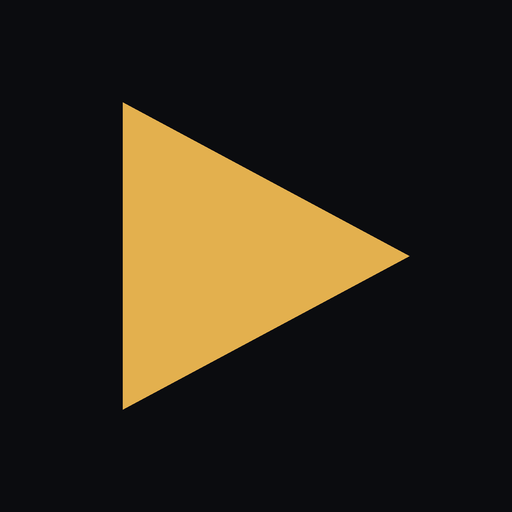
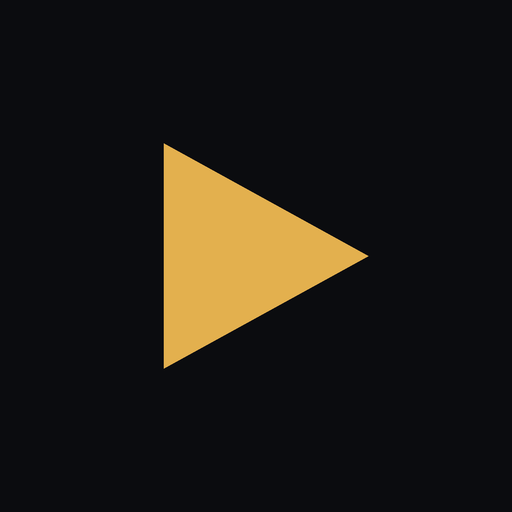
复查 PWA/备份：空备份守卫、图标遮罩、横屏、README 表格
一、备份的两个静默陷阱（都是数据安全问题）
  1. 导出时若个人数据还没从服务器读到（启动时 loadUserData 失败，应用仍会进主界面），
     doc 是空的 —— 导出的是一份 {}，用户却以为备份成功。这比不给备份更糟：
     等到真要恢复时才发现备份是空的。
  2. 导入时未加载同理：改动不会被推送（scheduleFlush 在 !loaded 时直接返回），
     还会被随后一次成功的 loadUserData 整份覆盖，而界面已经显示「已合并」。
  两个函数现在都先检查 loaded 并抛明确错误，设置页按钮在未加载时禁用并给出提示。

二、PWA 图标画错了
  - apple-touch-icon 与 maskable 原先是「圆角 + 透明角」，但这两个都由系统
    自己裁形状：iOS 会把透明角填成色块（双层圆角），maskable 的圆形遮罩会切角。
    改成满版不透明，maskable 的图形收进中心（pad 0.28）。
  - manifest 里我写了 orientation: portrait-primary —— 会把装到桌面的应用
    **锁死在竖屏**，看番没法横屏。删掉。

三、sw.js
  - 不缓存 sw.js 自身：浏览器更新检查虽然绕过 SW，但页面里若有 fetch('/sw.js')
    会命中缓存拿到旧副本，没有任何好处。
  - 补注释说明 VERSION 的用法与 assets 缓存随部署累积（一次约 300KB）的取舍。

四、README
  上一轮加 PWA 行时把 | 界面 | 的表头吃掉了，两行内容被拼成一行、还丢了
  「登录页 + 暗色 / 亮色双主题」这半句。已拆回两行并补回缺失文字，
  校验三张表的列数与闭合都正常。

Changed region(s): [[0.2188, 0.1875, 0.8125, 0.8125]]

diff --git a/frontend/src/pages/SettingsPage.tsx b/frontend/src/pages/SettingsPage.tsx
@@ -4,6 +4,7 @@ import BangumiChannelCard from '../components/BangumiChannelCard'
 import {
   exportUserData,
   flushUserData,
+  isUserDataLoaded,
   getSyncState,
   importUserData,
   getTheme,
@@ -62,7 +63,13 @@ export default function SettingsPage() {
   }, [])
 
   const doExport = () => {
-    const text = exportUserData()
+    let text: string
+    try {
+      text = exportUserData()
+    } catch (e) {
+      setBackupMsg(`导出失败：${e instanceof Error ? e.message : '未知错误'}`)
+      return
+    }
     const blob = new Blob([text], { type: 'application/json' })
     const url = URL.createObjectURL(blob)
     const a = document.createElement('a')
@@ -76,6 +83,12 @@ export default function SettingsPage() {
 
   const doImport = async (file: File | undefined) => {
     if (!file) return
+    // 上限只是防呆：备份是纯文本，几千条收藏也就几百 KB。
+    // 没有上限时选错一个大文件会把主线程卡在 JSON.parse 上。
+    if (file.size > 10 * 1024 * 1024) {
+      setBackupMsg('导入失败：文件超过 10MB，多半不是备份文件')
+      return
+    }
     setBackupMsg('导入中…')
     try {
       const summary = importUserData(await file.text())
@@ -157,10 +170,18 @@ export default function SettingsPage() {
           所以选错文件也不会把现有数据冲掉。
         </div>
         <div style={{ display: 'flex', gap: 10, flexWrap: 'wrap', marginTop: 12 }}>
-          <button className="btn btn-secondary btn-sm" onClick={doExport}>
+          <button
+            className="btn btn-secondary btn-sm"
+            onClick={doExport}
+            disabled={!isUserDataLoaded()}
+            title={isUserDataLoaded() ? '' : '个人数据还没读到，先点页脚的「重新读取」'}
+          >
             导出备份
           </button>
-          <label className="btn btn-secondary btn-sm" style={{ cursor: 'pointer' }}>
+          <label
+            className="btn btn-secondary btn-sm"
+            style={{ cursor: isUserDataLoaded() ? 'pointer' : 'not-allowed', opacity: isUserDataLoaded() ? 1 : 0.5 }}
+          >
             导入备份
             <input
               type="file"

diff --git a/frontend/src/lib/storage.ts b/frontend/src/lib/storage.ts
@@ -711,8 +711,16 @@ export interface ImportSummary {
   recent: number
 }
 
+/** 个人数据是否已经从服务器读到。导出/导入都要看它，理由见下面两个函数的守卫。 */
+export function isUserDataLoaded(): boolean {
+  return loaded
+}
+
 /** 导出整份个人数据。格式化输出，便于人工查看与 diff。 */
 export function exportUserData(): string {
+  // 读取失败时应用仍可用（浏览与搜索不需要同步），但 doc 是空的。
+  // 此时导出的是一份 {}，用户却会以为备份成功 —— 那比不给备份更糟。
+  if (!loaded) throw new Error('个人数据还没从服务器读到，现在导出只会得到一份空备份')
   return JSON.stringify(doc, null, 2)
 }
 
@@ -734,6 +742,9 @@ function numOr(value: unknown, fallback: number): number {
  * 文件不合法时抛错，由调用方展示。
  */
 export function importUserData(text: string): ImportSummary {
+  // 未加载时写进去的改动既不会被推送（scheduleFlush 在 !loaded 时直接返回），
+  // 还会被随后一次成功的 loadUserData 整份覆盖 —— 而界面已经显示「已合并」。
+  if (!loaded) throw new Error('个人数据还没从服务器读到，现在导入会被随后的加载覆盖')
   let parsed: unknown
   try {
     parsed = JSON.parse(text)

diff --git a/frontend/public/sw.js b/frontend/public/sw.js
@@ -21,6 +21,13 @@
  *    立即接管会让「还开着的老页面」去请求已经被删掉的旧 chunk，
  *    正好制造第 3 条要避免的那种白屏。
  */
+/**
+ * 缓存版本。改动缓存策略时**手动**改这里，activate 会清掉所有旧版本缓存。
+ * 注意：assets 缓存会随部署累积（新部署产生新哈希文件名，旧文件不再被引用
+ * 但仍在缓存里，一次部署约 300KB）。这是刻意接受的取舍 —— 换来的是弱网下
+ * 二次打开直接命中本地，而清理需要解析 index.html 才知道哪些还在用，
+ * 复杂度和出错面都不划算。真需要腾空间时把这里 +1 即可全清。
+ */
 const VERSION = 'v1'
 const SHELL_CACHE = `animeko-shell-${VERSION}`
 const ASSET_CACHE = `animeko-assets-${VERSION}`
@@ -59,6 +66,9 @@ self.addEventListener('fetch', (event) => {
   const url = new URL(req.url)
   if (url.origin !== self.location.origin) return
   if (url.pathname.startsWith('/api/')) return
+  // sw.js 自身不进缓存：浏览器的更新检查会绕过 SW，但页面里若有 fetch('/sw.js')
+  // 就会命中缓存拿到旧副本，一点好处都没有
+  if (url.pathname === '/sw.js') return
 
   if (req.mode === 'navigate') {
     event.respondWith(networkFirstNavigation(req))

diff --git a/README.md b/README.md
@@ -20,7 +20,8 @@
 | 播放体验 | 键盘快捷键（空格/`K` 播放暂停、`←`/`→` ±5 秒、`J`/`L` ±10 秒、`↑`/`↓` 音量、`M` 静音、`F` 全屏；触屏手势见播放页快捷键卡片）、**断点续播**、**自动连播**（下一集倒计时）|
 | 数据备份 | 设置页**一键导出 / 导入**个人数据（收藏、条目进度、每集进度、搜索历史、最近观看）。导入是**合并**不是覆盖：按 id / 播放地址去重、进度取更新的一条、条目进度取更大集号 —— 选错文件也不会把现有数据冲掉 |
 | 个人数据 | 追番收藏（**分想看 / 在看 / 看过 / 搁置**四档，可在收藏页直接改）、**数据源收藏**（没有 Bangumi 条目的源站作品也能收）、最近观看、搜索历史、每集观看进度、**条目级「看到第几话」** —— 全部存服务器的 `userdata.json`，**不写浏览器 localStorage**（只有主题与播放器音量/倍速这类设备偏好留在本地：它们必须在首屏或播放前读到，且换设备本就该各自独立） |
-| PWA | **可安装到主屏幕**（manifest + Service Worker，standalone 全屏、无地址栏）；手机端导航改为**底部 tab bar**（5 项，带安全区适配，播放页自动隐藏）。SW 策略：导航请求 network-first、`/assets/*`（带内容哈希）cache-first、`/api/*` 完全不拦截；**不调 skipWaiting**，新版本等旧页面关掉再接管 —— 立即接管会让老页面去请求已删除的旧 chunk |（「午夜影院」风格：深黑放映厅 / 暖白画报两套底色，琥珀金 accent，衬线标题）、响应式布局，桌面与手机浏览器均可；**首页继续观看**（上次那集还剩几分钟，一键续播）、**首页每日放送**（Bangumi 放送表按星期分组，可「只看我追的」并标出已收藏，镜像不支持该端点时自动隐藏整块）、**发现页排行榜**（Bangumi 动画评分榜，分页加载）；**顶栏常驻搜索框**（在任何页面都能改关键词，不必回首页）；搜索结果按**海报卡片**排布（源站结果同样带封面），**结果逐个回填**（不被最慢的死源拖着，见下方说明）；**返回搜索页不重搜**（每个关键词的结果在会话内记忆，标题旁可手动刷新）；页脚常驻「已保存 / 待保存 / 未同步」状态点。封面直连失败时自动改走 `/api/proxy` 回退，避免源站防盗链导致一片灰图；两条路都不通时落到统一的占位块而不是留个空洞 |
+| PWA | **可安装到主屏幕**（manifest + Service Worker，standalone 全屏、无地址栏）；手机端导航改为**底部 tab bar**（5 项，带安全区适配，播放页自动隐藏）。SW 策略：导航请求 network-first、`/assets/*`（带内容哈希）cache-first、`/api/*` 完全不拦截；**不调 skipWaiting**，新版本等旧页面关掉再接管 —— 立即接管会让老页面去请求已删除的旧 chunk。**注意**：Service Worker 只在 HTTPS 或 `localhost` 下生效；用纯 HTTP 访问内网 IP 时 PWA 装不上（页面本身照常工作，注册失败是静默的）。反代配好证书后把 `ANIMEKO_COOKIE_SECURE=true` 一起设上 |
+| 界面 | 登录页 + 暗色 / 亮色双主题（「午夜影院」风格：深黑放映厅 / 暖白画报两套底色，琥珀金 accent，衬线标题）、响应式布局，桌面与手机浏览器均可；**首页继续观看**（上次那集还剩几分钟，一键续播）、**首页每日放送**（Bangumi 放送表按星期分组，可「只看我追的」并标出已收藏，镜像不支持该端点时自动隐藏整块）、**发现页排行榜**（Bangumi 动画评分榜，分页加载）；**顶栏常驻搜索框**（在任何页面都能改关键词，不必回首页）；搜索结果按**海报卡片**排布（源站结果同样带封面），**结果逐个回填**（不被最慢的死源拖着，见下方说明）；**返回搜索页不重搜**（每个关键词的结果在会话内记忆，标题旁可手动刷新）；页脚常驻「已保存 / 待保存 / 未同步」状态点。封面直连失败时自动改走 `/api/proxy` 回退，避免源站防盗链导致一片灰图；两条路都不通时落到统一的占位块而不是留个空洞 |
 | Bangumi 通道 | 设置页可选**自动 / 仅官方 / 仅镜像 / 自定义**（可填自建中转），带逐地址连通性探测。持久化在 `data/bangumi-channel.json`，改完立即生效无需重启。官方与镜像能力不对等：每日放送只有官方有，境外 VPS 上镜像通常更快 —— 交给站长按自己的网络选。自定义地址**只接受公网 http/https**（内网/保留地址会被拒，与 proxy、订阅同一条规则；局域网中转需设 `ANIMEKO_ALLOW_PRIVATE_TARGETS=true`） |
 
 与 animeko App 的差异：App 用 WebView 拦截网络请求提取视频地址，服务端版改为抓播放页 HTML，
